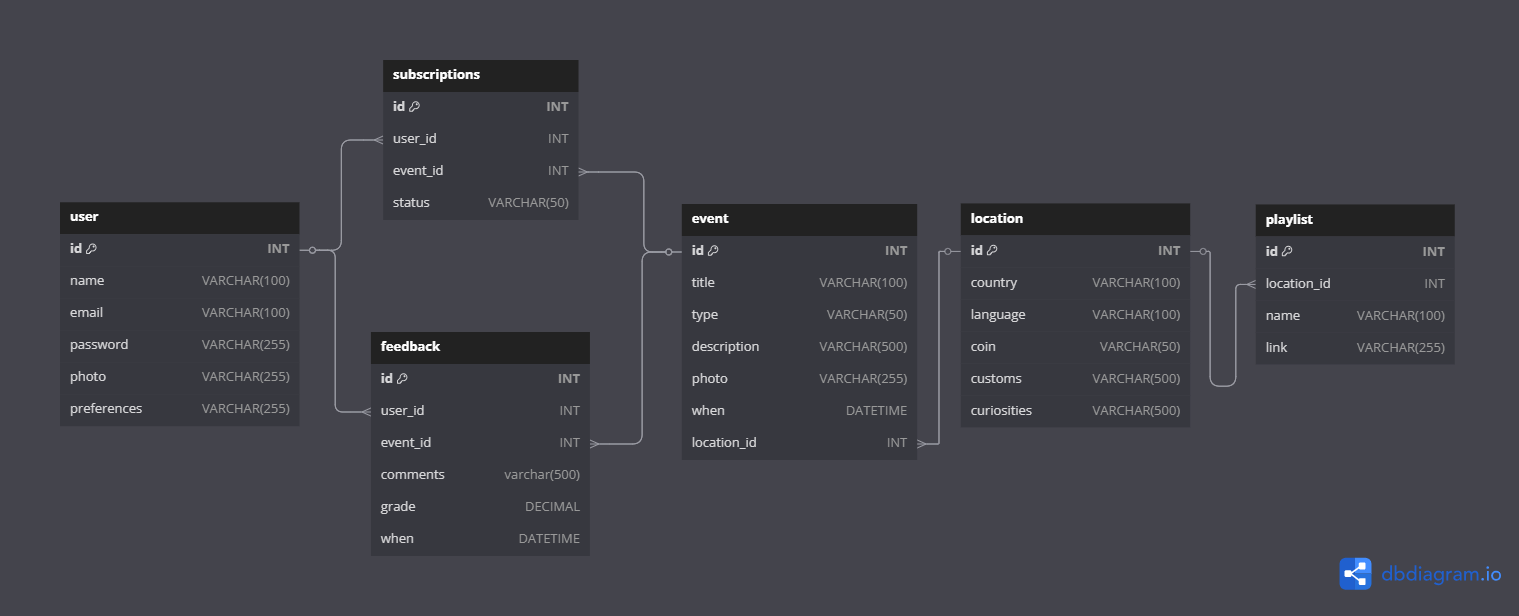
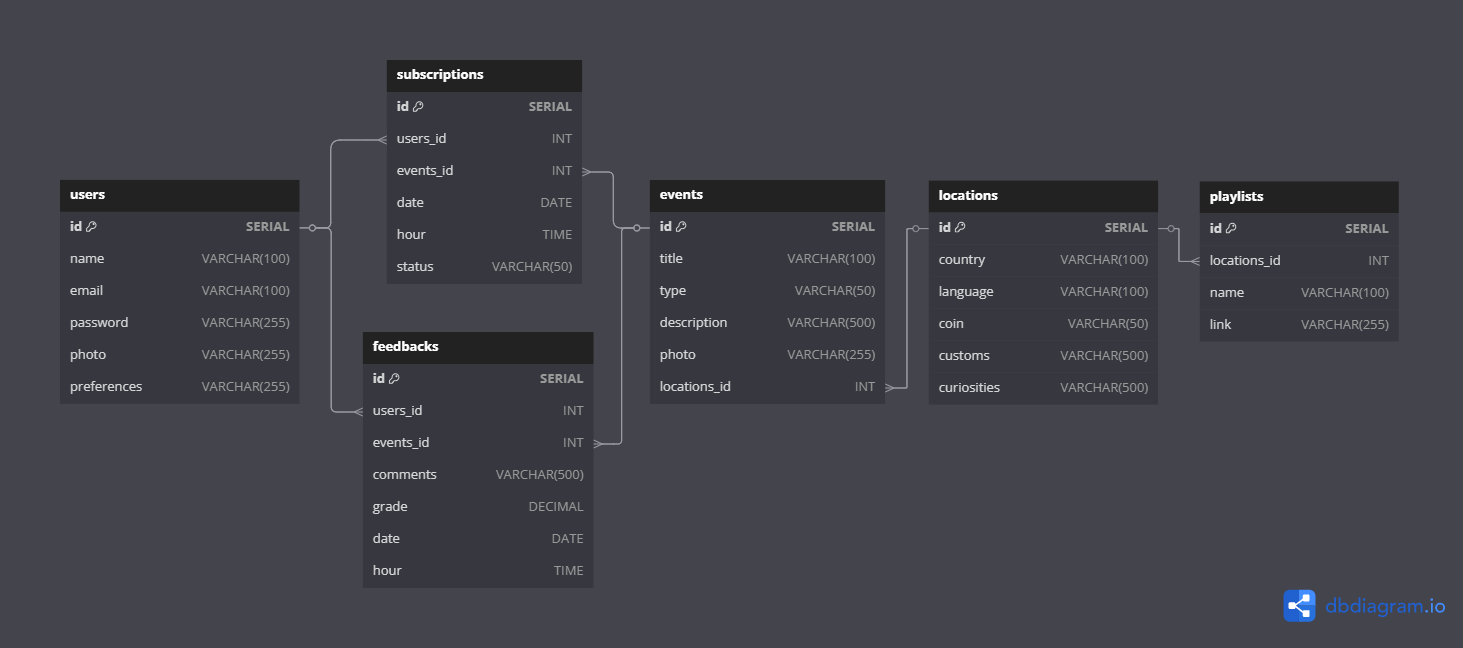
all

diff --git a/controllers/eventsController.js b/controllers/eventsController.js
@@ -1,47 +1,63 @@
-const Events = require('../models/eventsModel');
+const Subscriptions = require('../models/subscriptionsModel');
 
-// Listar todos os eventos
+// Listar todas as inscrições
 exports.index = async (req, res) => {
   try {
-    const events = await Events.findAll();
-    res.render('events/index', { events });
+    const subscriptions = await Subscriptions.findAll();
+    if (req.headers.accept && req.headers.accept.includes('application/json')) {
+      res.status(200).json(subscriptions);
+    } else {
+      res.render('subscriptions/index', { subscriptions });
+    }
   } catch (err) {
     res.status(500).json({ error: err.message });
   }
 };
 
-// Criar um novo evento
+// Criar uma nova inscrição
 exports.create = async (req, res) => {
-  const { title, type, description, photo, locations_id } = req.body;
+  const { users_id, events_id, date, hour, status } = req.body;
 
   try {
-    await Events.create({ title, type, description, photo, locations_id });
-    res.redirect('/events');
+    const subscription = await Subscriptions.create({ users_id, events_id, date, hour, status });
+    if (req.headers.accept && req.headers.accept.includes('application/json')) {
+      res.status(201).json(subscription);
+    } else {
+      res.redirect('/subscriptions');
+    }
   } catch (err) {
     res.status(500).json({ error: err.message });
   }
 };
 
-// Atualizar dados do evento
+// Atualizar dados da inscrição
 exports.update = async (req, res) => {
   const { id } = req.params;
-  const { title, type, description, photo, locations_id } = req.body;
+  const { users_id, events_id, date, hour, status } = req.body;
 
   try {
-    await Events.update(id, { title, type, description, photo, locations_id });
-    res.redirect('/events');
+    const subscription = await Subscriptions.update(id, { users_id, events_id, date, hour, status });
+    if (req.headers.accept && req.headers.accept.includes('application/json')) {
+      res.status(200).json(subscription);
+    } else {
+      res.redirect('/subscriptions');
+    }
   } catch (err) {
     res.status(500).json({ error: err.message });
   }
 };
 
-// Deletar evento
+// Deletar inscrição
 exports.delete = async (req, res) => {
   const { id } = req.params;
 
   try {
-    await Events.delete(id);
-    res.redirect('/events');
+    const subscription = await Subscriptions.delete(id);
+    if (req.headers.accept && req.headers.accept.includes('application/json')) {
+      res.status(200).json({ message: 'Subscription deleted successfully', subscription });
+    } else {
+      res.redirect('/subscriptions');
+    }
   } catch (err) {
     res.status(500).json({ error: err.message });
   }

diff --git a/controllers/feedbacksController.js b/controllers/feedbacksController.js
@@ -1,10 +1,14 @@
 const Feedbacks = require('../models/feedbacksModel');
 
-// Listar todos os Feedbacks
+// Listar todos os feedbacks
 exports.index = async (req, res) => {
   try {
     const feedbacks = await Feedbacks.findAll();
-    res.status(200).json(feedbacks);
+    if (req.headers.accept && req.headers.accept.includes('application/json')) {
+      res.status(200).json(feedbacks);
+    } else {
+      res.render('feedbacks/index', { feedbacks });
+    }
   } catch (err) {
     res.status(500).json({ error: err.message });
   }
@@ -15,8 +19,12 @@ exports.create = async (req, res) => {
   const { users_id, events_id, comments, grade, date, hour } = req.body;
 
   try {
-    await Feedbacks.create({ users_id, events_id, comments, grade, date, hour });
-    res.redirect('/feedbacks');
+    const feedback = await Feedbacks.create({ users_id, events_id, comments, grade, date, hour });
+    if (req.headers.accept && req.headers.accept.includes('application/json')) {
+      res.status(201).json(feedback);
+    } else {
+      res.redirect('/feedbacks');
+    }
   } catch (err) {
     res.status(500).json({ error: err.message });
   }
@@ -28,8 +36,12 @@ exports.update = async (req, res) => {
   const { comments, grade, date, hour } = req.body;
 
   try {
-    await Feedbacks.update(id, { comments, grade, date, hour });
-    res.redirect('/feedbacks');
+    const feedback = await Feedbacks.update(id, { comments, grade, date, hour });
+    if (req.headers.accept && req.headers.accept.includes('application/json')) {
+      res.status(200).json(feedback);
+    } else {
+      res.redirect('/feedbacks');
+    }
   } catch (err) {
     res.status(500).json({ error: err.message });
   }
@@ -40,8 +52,12 @@ exports.delete = async (req, res) => {
   const { id } = req.params;
 
   try {
-    await Feedbacks.delete(id);
-    res.redirect('/feedbacks');
+    const feedback = await Feedbacks.delete(id);
+    if (req.headers.accept && req.headers.accept.includes('application/json')) {
+      res.status(200).json({ message: 'Feedback deleted successfully', feedback });
+    } else {
+      res.redirect('/feedbacks');
+    }
   } catch (err) {
     res.status(500).json({ error: err.message });
   }

diff --git a/controllers/locationsController.js b/controllers/locationsController.js
@@ -4,7 +4,11 @@ const Locations = require('../models/locationsModel');
 exports.index = async (req, res) => {
   try {
     const locations = await Locations.findAll();
-    res.render('locations/index', { locations });
+    if (req.headers.accept && req.headers.accept.includes('application/json')) {
+      res.status(200).json(locations);
+    } else {
+      res.render('locations/index', { locations });
+    }
   } catch (err) {
     res.status(500).json({ error: err.message });
   }
@@ -15,8 +19,12 @@ exports.create = async (req, res) => {
   const { country, language, coin, customs, curiosities } = req.body;
 
   try {
-    await Locations.create({ country, language, coin, customs, curiosities });
-    res.redirect('/locations');
+    const location = await Locations.create({ country, language, coin, customs, curiosities });
+    if (req.headers.accept && req.headers.accept.includes('application/json')) {
+      res.status(201).json(location);
+    } else {
+      res.redirect('/locations');
+    }
   } catch (err) {
     res.status(500).json({ error: err.message });
   }
@@ -28,8 +36,12 @@ exports.update = async (req, res) => {
   const { country, language, coin, customs, curiosities } = req.body;
 
   try {
-    await Locations.update(id, { country, language, coin, customs, curiosities });
-    res.redirect('/locations');
+    const location = await Locations.update(id, { country, language, coin, customs, curiosities });
+    if (req.headers.accept && req.headers.accept.includes('application/json')) {
+      res.status(200).json(location);
+    } else {
+      res.redirect('/locations');
+    }
   } catch (err) {
     res.status(500).json({ error: err.message });
   }
@@ -40,8 +52,12 @@ exports.delete = async (req, res) => {
   const { id } = req.params;
 
   try {
-    await Locations.delete(id);
-    res.redirect('/locations');
+    const location = await Locations.delete(id);
+    if (req.headers.accept && req.headers.accept.includes('application/json')) {
+      res.status(200).json({ message: 'Location deleted successfully', location });
+    } else {
+      res.redirect('/locations');
+    }
   } catch (err) {
     res.status(500).json({ error: err.message });
   }

diff --git a/controllers/playlistsController.js b/controllers/playlistsController.js
@@ -4,7 +4,11 @@ const Playlists = require('../models/playlistsModel');
 exports.index = async (req, res) => {
   try {
     const playlists = await Playlists.findAll();
-    res.status(200).json(playlists);
+    if (req.headers.accept && req.headers.accept.includes('application/json')) {
+      res.status(200).json(playlists);
+    } else {
+      res.render('playlists/index', { playlists });
+    }
   } catch (err) {
     res.status(500).json({ error: err.message });
   }
@@ -15,8 +19,12 @@ exports.create = async (req, res) => {
   const { locations_id, name, link } = req.body;
 
   try {
-    await Playlists.create({ locations_id, name, link });
-    res.redirect('/playlists');
+    const playlist = await Playlists.create({ locations_id, name, link });
+    if (req.headers.accept && req.headers.accept.includes('application/json')) {
+      res.status(201).json(playlist);
+    } else {
+      res.redirect('/playlists');
+    }
   } catch (err) {
     res.status(500).json({ error: err.message });
   }
@@ -28,8 +36,12 @@ exports.update = async (req, res) => {
   const { locations_id, name, link } = req.body;
 
   try {
-    await Playlists.update(id, { locations_id, name, link });
-    res.redirect('/playlists');
+    await Playlists.update({ locations_id, name, link }, { where: { id } });
+    if (req.headers.accept && req.headers.accept.includes('application/json')) {
+      res.status(200).json({ message: 'Playlist updated successfully' });
+    } else {
+      res.redirect('/playlists');
+    }
   } catch (err) {
     res.status(500).json({ error: err.message });
   }
@@ -41,7 +53,11 @@ exports.delete = async (req, res) => {
 
   try {
     await Playlists.delete(id);
-    res.redirect('/playlists');
+    if (req.headers.accept && req.headers.accept.includes('application/json')) {
+      res.status(200).json({ message: 'Playlist deleted successfully' });
+    } else {
+      res.redirect('/playlists');
+    }
   } catch (err) {
     res.status(500).json({ error: err.message });
   }

diff --git a/models/locationsModel.js b/models/locationsModel.js
@@ -11,9 +11,8 @@ module.exports = {
     const result = await db.query('SELECT * FROM locations ORDER BY id ASC');
     return result.rows;
   },
-
   async update(id, data) {
-    const query = 'UPDATE locations SET country = $1, language = $2, coin = $3, customs = $4, curiosities = $5, updated_at = CURRENT_TIMESTAMP WHERE id = $6 RETURNING *';
+    const query = 'UPDATE locations SET country = $1, language = $2, coin = $3, customs = $4, curiosities = $5 WHERE id = $6 RETURNING *';
     const values = [data.country, data.language, data.coin, data.customs, data.curiosities, id];
     return db.query(query, values);
   },

diff --git a/models/subscriptionsModel.js b/models/subscriptionsModel.js
@@ -13,7 +13,7 @@ module.exports = {
   },
 
   async update(id, data) {
-    const query = 'UPDATE subscriptions SET users_id = $1, events_id = $2, date = $3, hour = $4, status = $5, updated_at = CURRENT_TIMESTAMP WHERE id = $6 RETURNING *';
+    const query = 'UPDATE subscriptions SET users_id = $1, events_id = $2, date = $3, hour = $4, status = $5 WHERE id = $6 RETURNING *';
     const values = [data.users_id, data.events_id, data.date, data.hour, data.status, id];
     return db.query(query, values);
   },

diff --git a/models/eventsModel.js b/models/eventsModel.js
@@ -13,7 +13,7 @@ module.exports = {
   },
 
   async update(id, data) {
-    const query = 'UPDATE Events SET title = $1, type = $2, description = $3, photo = $4, locations_id = $5, updated_at = CURRENT_TIMESTAMP WHERE id = $6 RETURNING *';
+    const query = 'UPDATE Events SET title = $1, type = $2, description = $3, photo = $4, locations_id = $5 WHERE id = $6 RETURNING *';
     const values = [data.type, data.description, data.photo, data.location_id, id];
     return db.query(query, values);
   },

diff --git a/models/usersModel.js b/models/usersModel.js
@@ -14,7 +14,7 @@ module.exports = {
   },
 
   async update(id, data) {
-    const query = 'UPDATE users SET name = $1, email = $2, password = $3, photo = $4, preferences = $5, updated_at = CURRENT_TIMESTAMP WHERE id = $6 RETURNING *';
+    const query = 'UPDATE users SET name = $1, email = $2, password = $3, photo = $4, preferences = $5, WHERE id = $6 RETURNING *';
     const values = [data.name, data.email, data.password, data.photo, data.preferences, id];
     return db.query(query, values);
   },

diff --git a/models/feedbacksModel.js b/models/feedbacksModel.js
@@ -13,7 +13,7 @@ module.exports = {
   },
 
   async update(id, data) {
-    const query = 'UPDATE feedbacks SET comments = $1, grade = $2, date = $3, hour = $4, updated_at = CURRENT_TIMESTAMP WHERE id = $5 RETURNING *';
+    const query = 'UPDATE feedbacks SET comments = $1, grade = $2, date = $3, hour = $4 WHERE id = $5 RETURNING *';
     const values = [data.comments, data.grade, data.date, data.hour, id];
     return db.query(query, values);
   },

diff --git a/controllers/usersController.js b/controllers/usersController.js
@@ -4,7 +4,11 @@ const Users = require('../models/usersModel');
 exports.index = async (req, res) => {
   try {
     const users = await Users.findAll();
-    res.render('users/index', { users });
+    if (req.headers.accept && req.headers.accept.includes('application/json')) {
+      res.status(200).json(users);
+    } else {
+      res.render('users/index', { users });
+    }
   } catch (err) {
     res.status(500).json({ error: err.message });
   }

diff --git a/models/playlistsModel.js b/models/playlistsModel.js
@@ -13,7 +13,7 @@ module.exports = {
   },
 
   async update(id, data) {
-    const query = 'UPDATE playlists SET location_id = $1, name = $2, link = $3, updated_at = CURRENT_TIMESTAMP WHERE id = $4 RETURNING *';
+    const query = 'UPDATE playlists SET location_id = $1, name = $2, link = $3 WHERE id = $4 RETURNING *';
     const values = [data.location_id, data.name, data.link, id];
     return db.query(query, values);
   },

diff --git a/server.js b/server.js
@@ -13,6 +13,9 @@ db.connect()
 
     app.use(express.json());
     
+    app.use(express.urlencoded({ extended: true }));
+    app.use(express.static(path.join(__dirname, 'public')));
+    
     const eventsRoutes = require('./routes/eventsRoutes');
     app.use('/events', eventsRoutes);  
 
